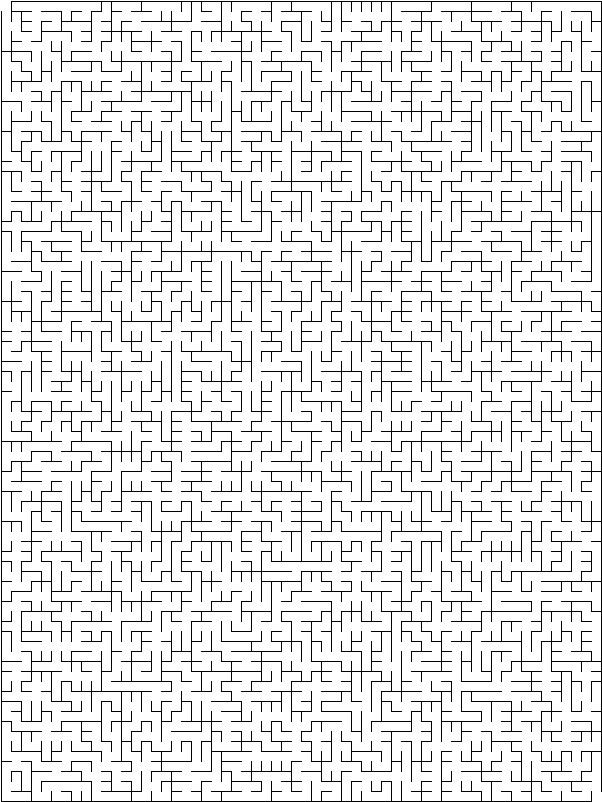
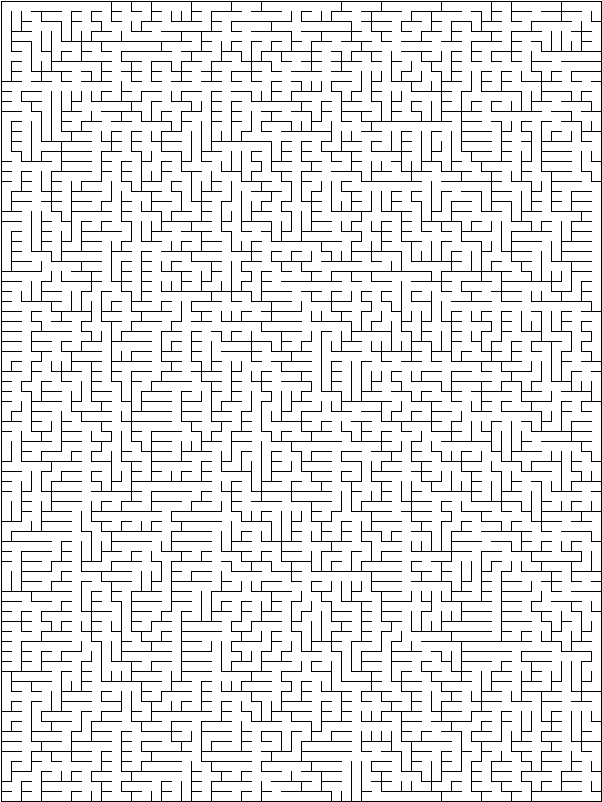
Added Prim Algorithm

diff --git a/src/MazeGenerators/Prim/Prim.java b/src/MazeGenerators/Prim/Prim.java
@@ -1,0 +1,51 @@
+package MazeGenerators.Prim;
+
+import MazeCoordinates.MazeCoordinate;
+import Mazes.Maze;
+
+import java.util.ArrayList;
+import java.util.List;
+
+public class Prim {
+    public static void generateMaze(PrimOptions pp, Maze maze) {
+        List<MazeCoordinate> frontier = new ArrayList<>();
+        List<MazeCoordinate> visited = new ArrayList<>();
+        int[] directions = maze.getDirections();
+        int[] opposites = maze.getOpposites();
+        frontier.add(pp.start);
+        while(frontier.size()>0){
+            MazeCoordinate base = frontier.get((int)(Math.random()*frontier.size()));
+            boolean connected=false;
+            for(int i=0; i<directions.length; i++){
+                MazeCoordinate newCoordinate = maze.move(base,i);
+                if(maze.inside(newCoordinate)) {
+                    if (visited.contains(newCoordinate)) {
+                        if (!connected) {
+                            maze.removeWall(base, directions[i]);
+                            maze.removeWall(newCoordinate, opposites[i]);
+                            connected = true;
+                        }
+                    } else {
+                        if(!frontier.contains(newCoordinate)) {
+                            frontier.add(newCoordinate);
+                        }
+                    }
+                }
+            }
+            frontier.remove(base);
+            visited.add(base);
+        }
+    }
+
+    static void shuffle(int[] array){
+        for(int j=0; j<array.length; j++){
+            for(int i=0; i<array.length-1; i++){
+                if(Math.random()>0.5){
+                    int temp = array[i+1];
+                    array[i+1] =  array[i];
+                    array[i]=temp;
+                }
+            }
+        }
+    }
+}

diff --git a/src/Main.java b/src/Main.java
@@ -2,6 +2,7 @@ import MazeCoordinates.SquareCoordinate;
 import MazeGenerators.Backtracker.BacktrackerOptions;
 import MazeGenerators.Kruskal.KruskalOptions;
 import MazeGenerators.MazeGenerator;
+import MazeGenerators.Prim.PrimOptions;
 import MazeRenderers.MazeRenderer;
 import MazeRenderers.SquareMazeRenderer.SquareMazeRendererOptions;
 import Mazes.Maze;
@@ -23,8 +24,9 @@ public class Main extends Application {
         primaryStage.setScene(new Scene(root, 300, 275));
         primaryStage.show();
         double hardness = 4;
-        //Maze maze = MazeGenerator.generateMaze(new BacktrackerOptions(new SquareCoordinate(15*hardness/2,0)), new SquareMazeOptions(15*hardness,20*hardness));
-        Maze maze = MazeGenerator.generateMaze(new KruskalOptions(), new SquareMazeOptions((int)(15*hardness),(int)(20*hardness)));
+        //Maze maze = MazeGenerator.generateMaze(new BacktrackerOptions(new SquareCoordinate((int)(15*hardness/2),0)), new SquareMazeOptions((int)(15*hardness),(int)(20*hardness)));
+        //Maze maze = MazeGenerator.generateMaze(new KruskalOptions(), new SquareMazeOptions((int)(15*hardness),(int)(20*hardness)));
+        Maze maze = MazeGenerator.generateMaze(new PrimOptions(new SquareCoordinate(0,0)), new SquareMazeOptions((int)(15*hardness),(int)(20*hardness)));
         MazeRenderer.saveMaze(maze, new SquareMazeRendererOptions(10),new File("image.png"),"png");
     }
 

diff --git a/src/MazeGenerators/MazeGenerator.java b/src/MazeGenerators/MazeGenerator.java
@@ -1,9 +1,8 @@
 package MazeGenerators;
 
-import MazeGenerators.Backtracker.Backtracker;
-import MazeGenerators.Backtracker.BacktrackerOptions;
-import MazeGenerators.Kruskal.Kruskal;
-import MazeGenerators.Kruskal.KruskalOptions;
+import MazeGenerators.Backtracker.*;
+import MazeGenerators.Kruskal.*;
+import MazeGenerators.Prim.*;
 import Mazes.Maze;
 import Mazes.MazeOptions;
 import Mazes.SquareMaze.SquareMaze;
@@ -25,6 +24,9 @@ public class MazeGenerator {
                 break;
             case KRUSKAL:
                 Kruskal.generateMaze((KruskalOptions)generatorOptions,maze);
+                break;
+            case PRIM:
+                Prim.generateMaze((PrimOptions)generatorOptions,maze);
                 break;
             default:
                 return null;

diff --git a/src/MazeGenerators/Prim/PrimOptions.java b/src/MazeGenerators/Prim/PrimOptions.java
@@ -1,0 +1,18 @@
+package MazeGenerators.Prim;
+
+import MazeCoordinates.MazeCoordinate;
+import MazeGenerators.GeneratorOptions;
+import MazeGenerators.GeneratorType;
+
+public class PrimOptions implements GeneratorOptions {
+    public MazeCoordinate start;
+
+    public PrimOptions(MazeCoordinate start) {
+        this.start = start;
+    }
+
+    @Override
+    public GeneratorType getGeneratorType() {
+        return GeneratorType.PRIM;
+    }
+}

diff --git a/src/Mazes/Maze.java b/src/Mazes/Maze.java
@@ -13,7 +13,7 @@ public interface Maze {
     public List<Border> getAllBorders();
     public int getTotalCells();
     public int uniqueId(MazeCoordinate mc);
-    public void removeWall(MazeCoordinate mc, int directionIndex);
+    public void removeWall(MazeCoordinate mc, int direction);
     public void removeWall(Border border);
     public MazeCoordinate move(MazeCoordinate mc, int directionIndex);
     public boolean inside(MazeCoordinate mc);

diff --git a/src/MazeGenerators/Kruskal/Kruskal.java b/src/MazeGenerators/Kruskal/Kruskal.java
@@ -7,7 +7,7 @@ import java.util.Collections;
 import java.util.List;
 
 public class Kruskal {
-    public static void generateMaze(KruskalOptions bp, Maze maze) {
+    public static void generateMaze(KruskalOptions kp, Maze maze) {
         List<Border> borders = maze.getAllBorders();
         Collections.shuffle(borders);
         int[] cellIds = new int[maze.getTotalCells()];

diff --git a/src/MazeCoordinates/SquareCoordinate.java b/src/MazeCoordinates/SquareCoordinate.java
@@ -8,4 +8,15 @@ public class SquareCoordinate implements MazeCoordinate{
         this.x = x;
         this.y = y;
     }
+
+    @Override
+    public boolean equals(Object other){
+        SquareCoordinate ot = (SquareCoordinate)other;
+        return ot.x==x && ot.y == y;
+    }
+
+    @Override
+    public String toString(){
+        return "("+x+","+y+")";
+    }
 }

diff --git a/src/MazeGenerators/GeneratorType.java b/src/MazeGenerators/GeneratorType.java
@@ -1,5 +1,5 @@
 package MazeGenerators;
 
 public enum GeneratorType {
-    BACKTRACKER,KRUSKAL
+    BACKTRACKER,KRUSKAL,PRIM
 }
